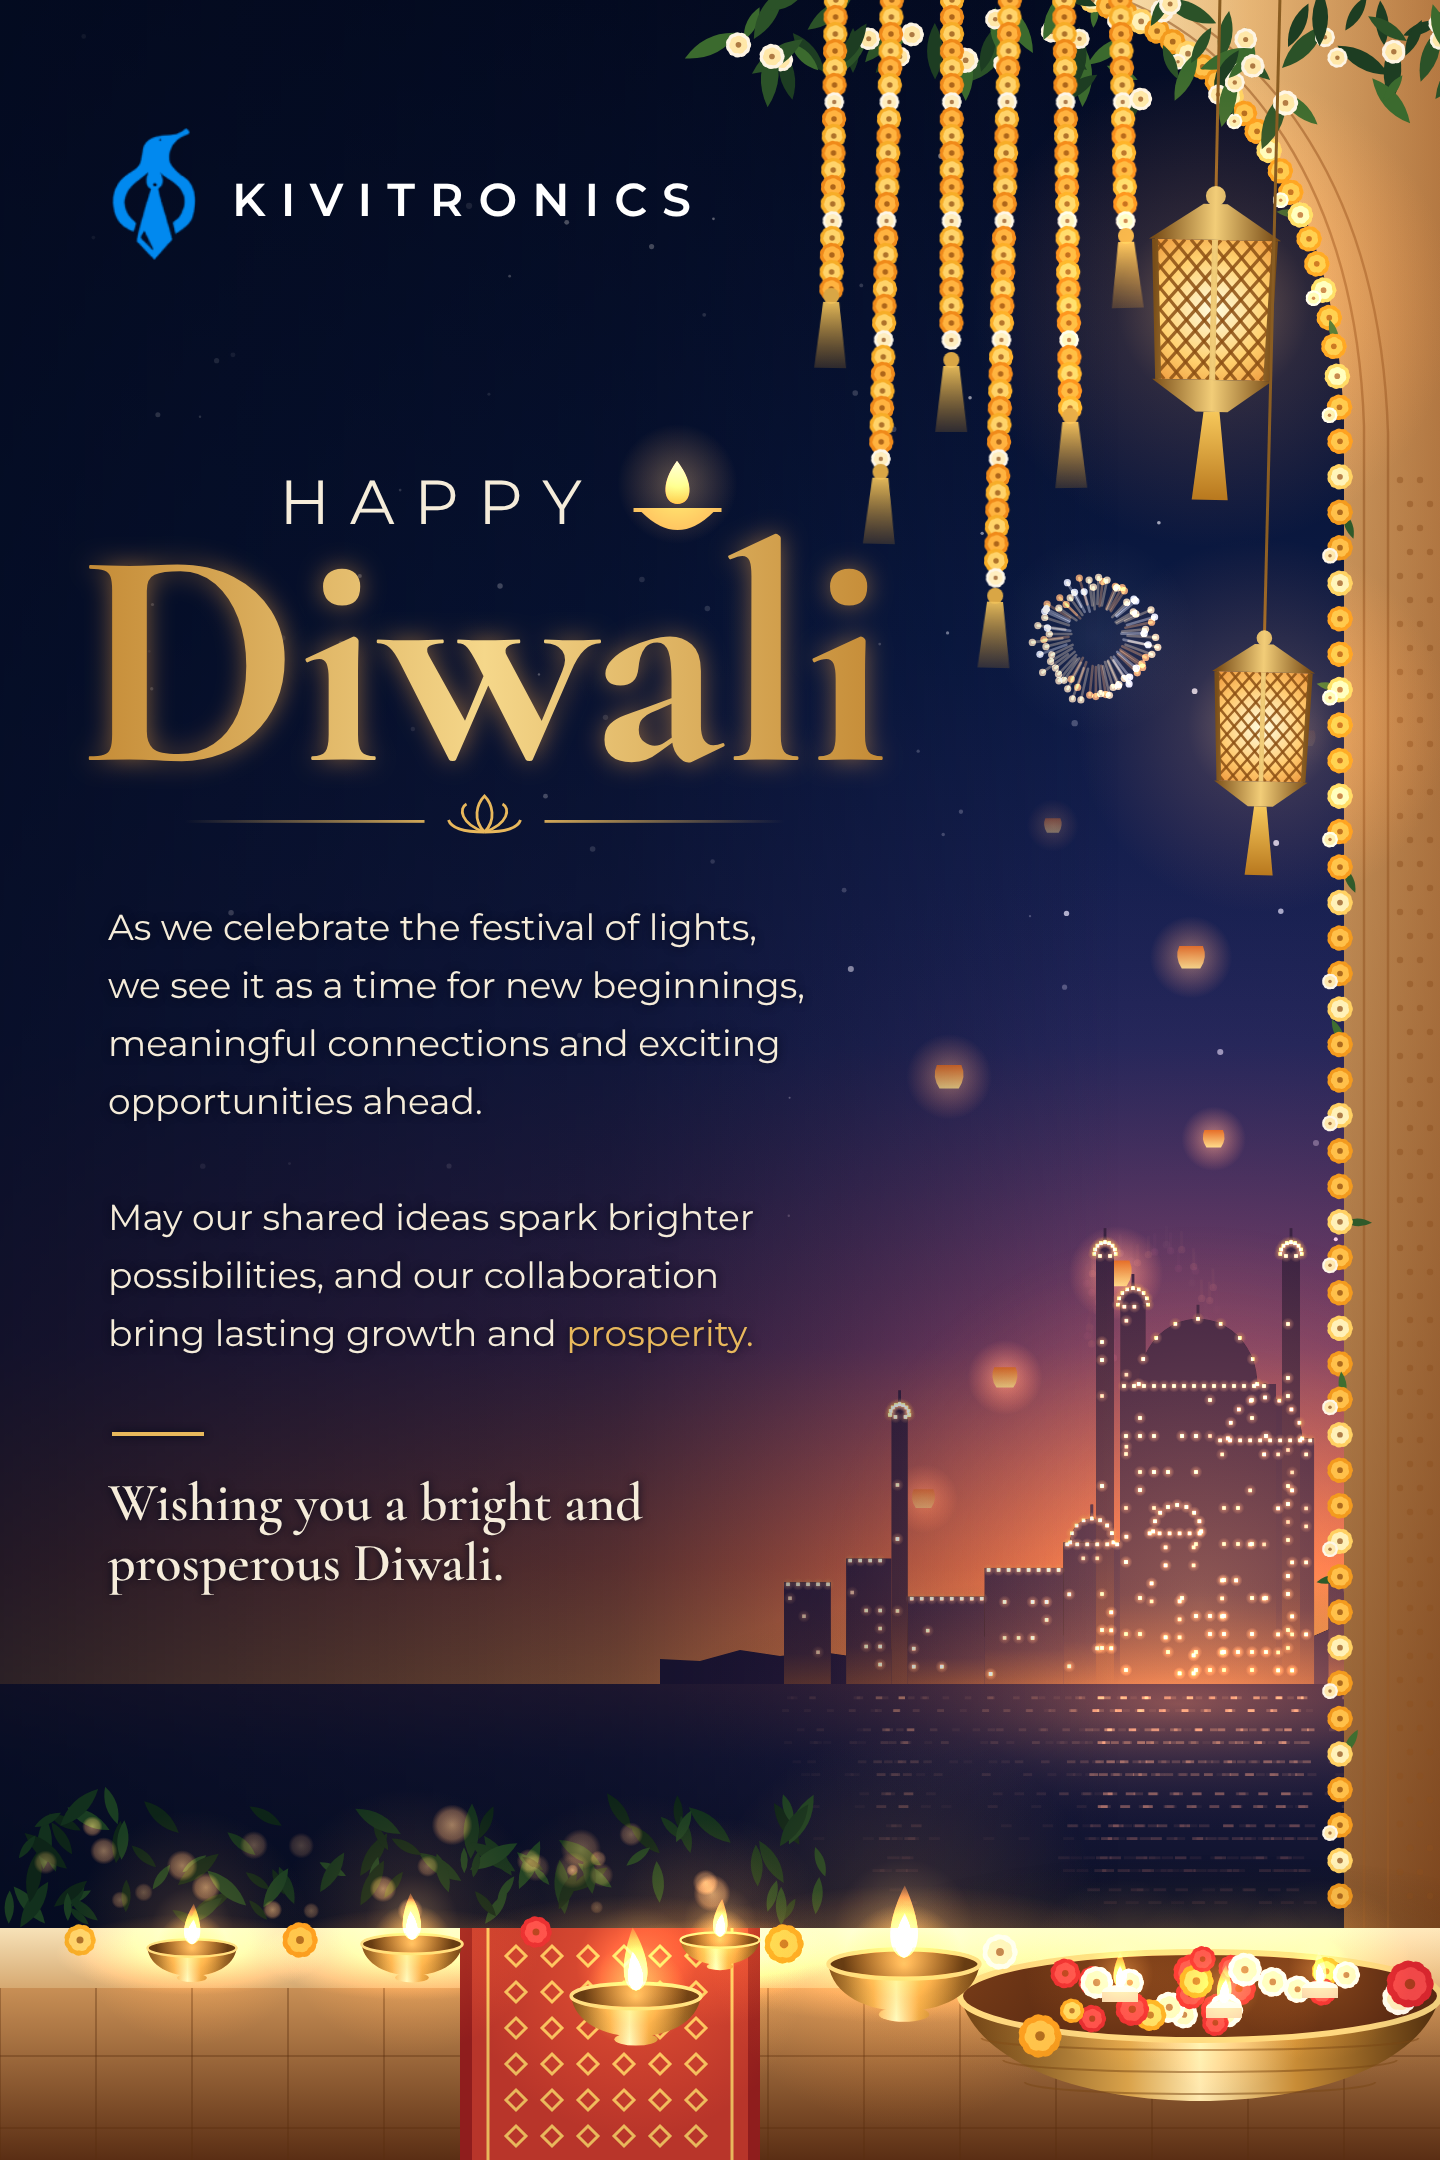
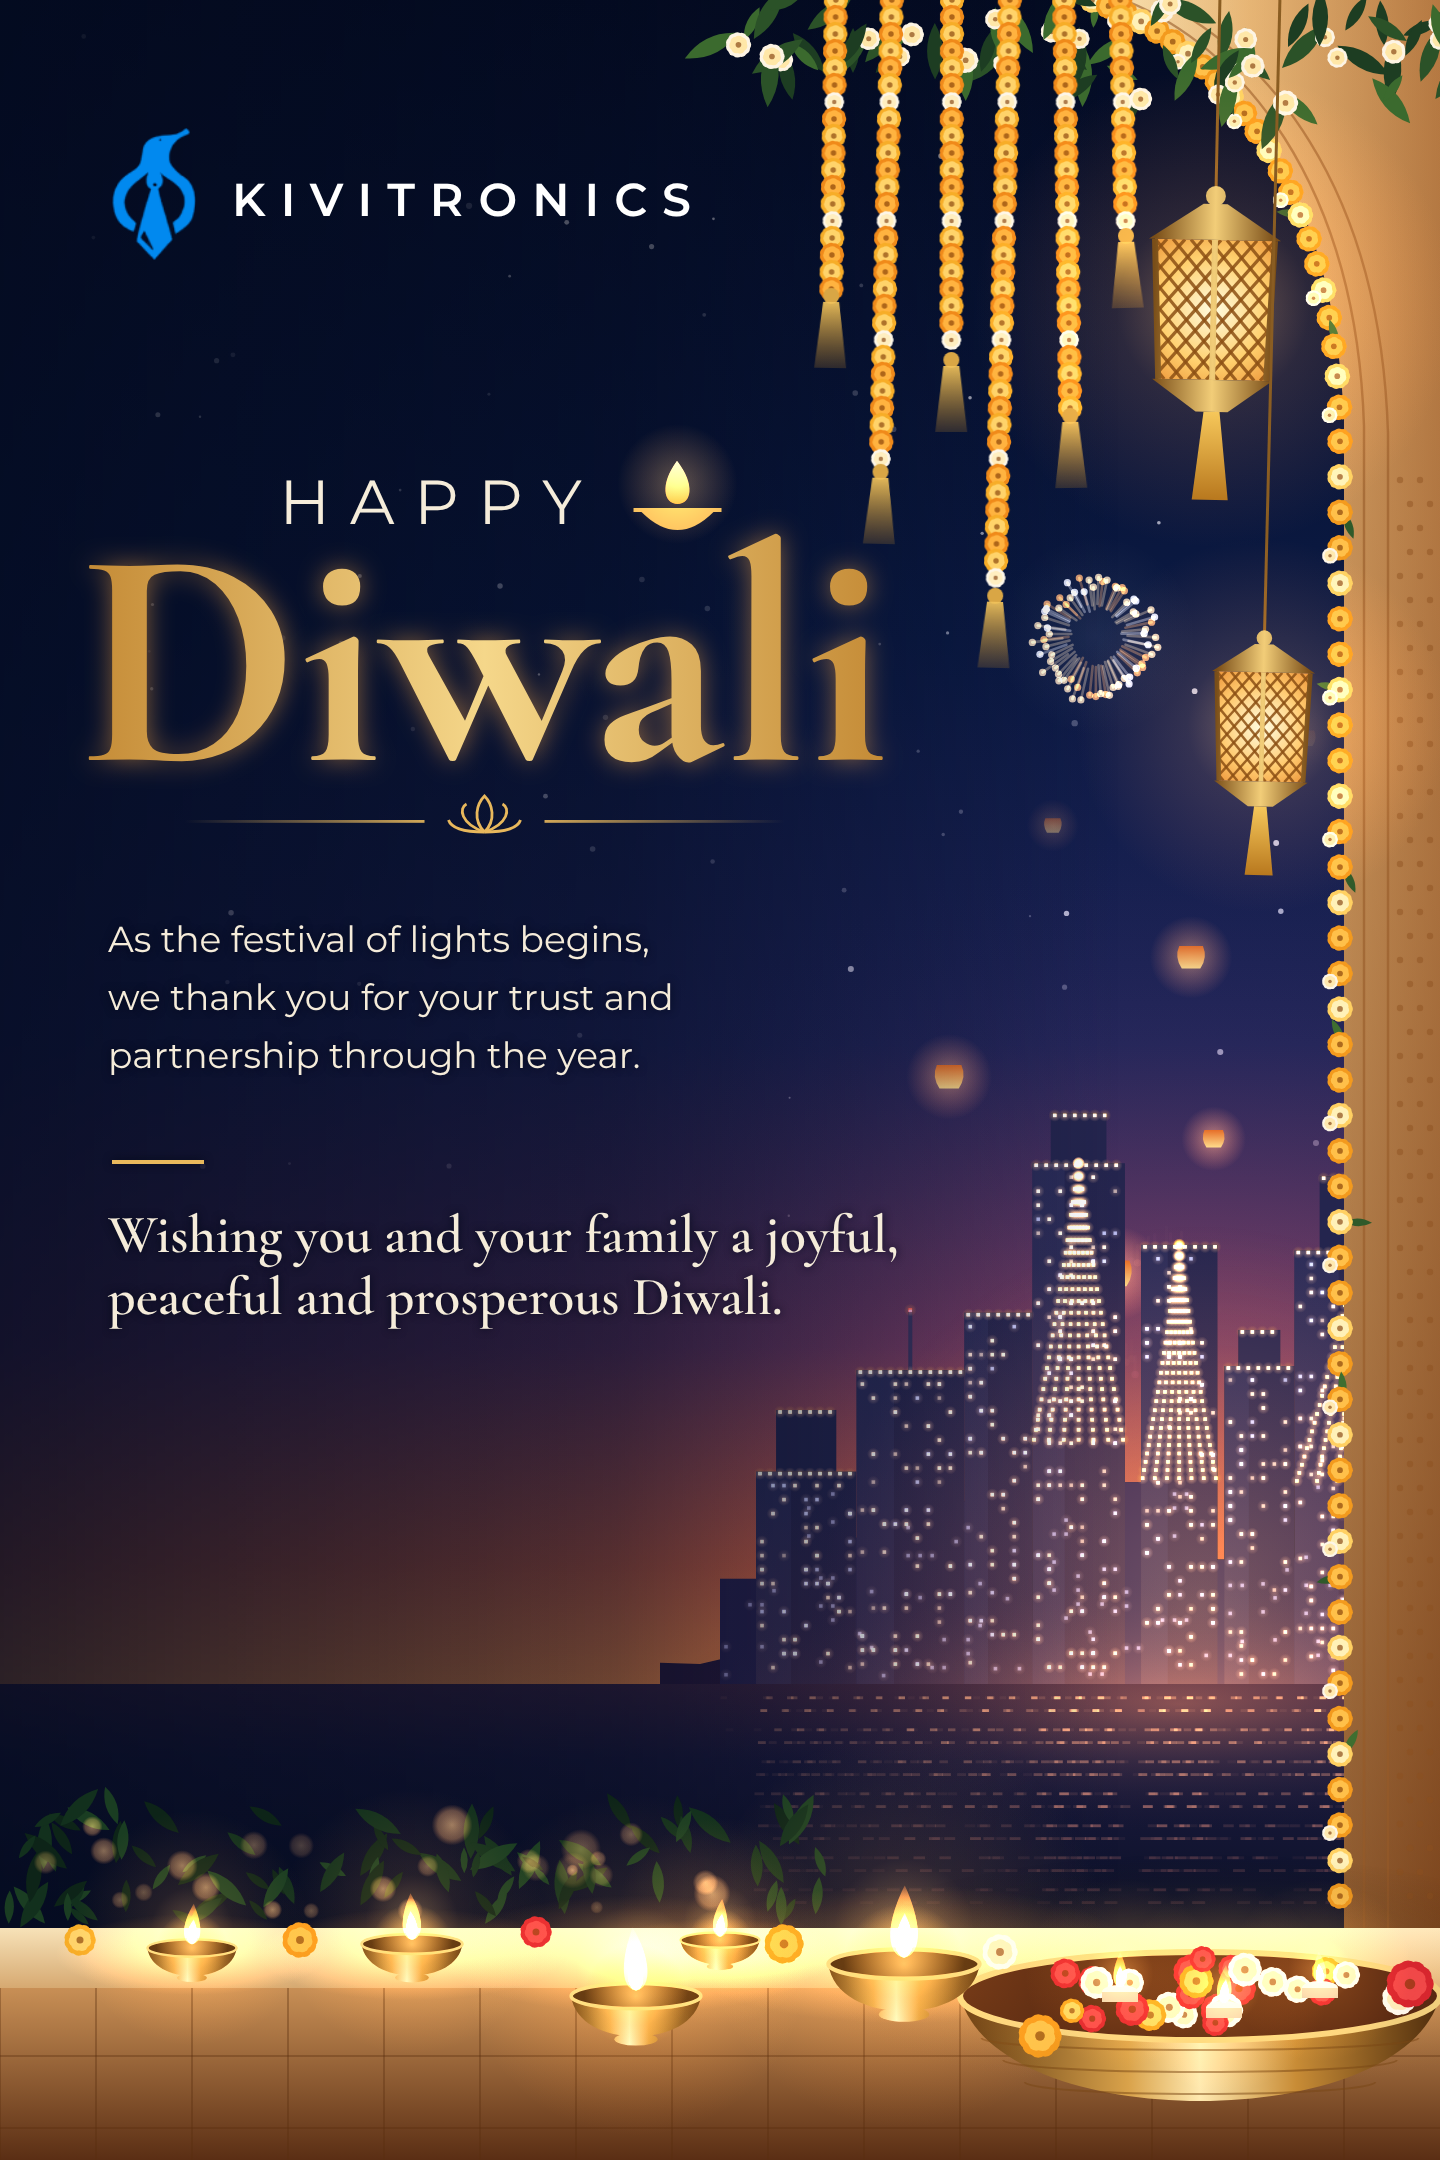
Final static poster: city scene with approved closing line
Claude-Session: https://claude.ai/code/session_01KK6EcFhoLQivjsFoKVDcmb

diff --git a/marketing/diwali-2026/kivitronics-diwali-poster.html b/marketing/diwali-2026/kivitronics-diwali-poster.html
@@ -513,6 +513,8 @@ canvas { height: min(1080px, 100vh - 32px); width: auto; max-width: calc(100vw -
   }
 
   const COPY = {
+    final: { body: ['As the festival of lights begins,', 'we thank you for your trust and', 'partnership through the year.'],
+         close: ['Wishing you and your family a joyful,', 'peaceful and prosperous Diwali.'] },
     a: { body: ['As the festival of lights begins,', 'we thank you for your trust and', 'partnership through the year.'],
          close: ['Wishing you and your family', 'a peaceful and joyful Diwali.'] },
     b: { body: ['Warm wishes to you and your', 'loved ones for a Diwali filled', 'with light, good health and', 'happiness.'],
@@ -520,7 +522,7 @@ canvas { height: min(1080px, 100vh - 32px); width: auto; max-width: calc(100vw -
     c: { body: ['May the festival of lights bring', 'clarity, calm and good health', 'to you and those close to you.'],
          close: ['Wishing you a bright and', 'prosperous New Year.'] },
   };
-  const COPY_KEY = COPY[new URLSearchParams(location.search).get('copy')] ? new URLSearchParams(location.search).get('copy') : 'a';
+  const COPY_KEY = COPY[new URLSearchParams(location.search).get('copy')] ? new URLSearchParams(location.search).get('copy') : 'final';
 
   // ================= TYPOGRAPHY =================
   function text(str, x, y, font, fill, spacing = 0, align = 'left') {
